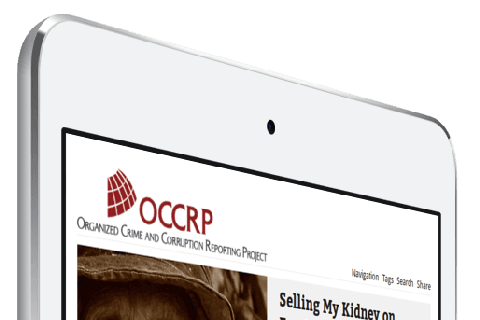
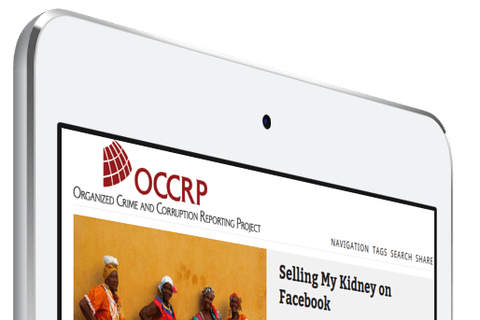
The blurry OCCRP thumb fixed

diff --git a/_site/assets/styles/screen.css b/_site/assets/styles/screen.css
@@ -19,7 +19,7 @@ a img { border: none; }
 article, aside, details, figcaption, figure, footer, header, hgroup, main, menu, nav, section, summary { display: block; }
 
 /* No files to import found in settings/* */
-html body { font-size: 100%; line-height: 1.25; color: #1a1a1a; background-color: #f9f9f9; font-family: "Europa", sans-serif; font-weight: 300; background-image: url('/assets/images/subtle-dots.png?1411285851'); }
+html body { font-size: 100%; line-height: 1.25; color: #1a1a1a; background-color: #f9f9f9; font-family: "Europa", sans-serif; font-weight: 300; background-image: url('http://metamn.github.io/its-csongor/assets/images/subtle-dots.png?1411294095'); }
 @media only screen and (min-width: 64em) { html body { font-size: 125%; line-height: 1.56; } }
 @media only screen and (min-width: 90em) { html body { font-size: 150%; line-height: 1.56; } }
 html body a { color: #1a1a1a; background-color: #f9f9f9; text-decoration: none; }
@@ -38,7 +38,7 @@ html.frontpage body #featured-image article aside p + p { margin-top: 1.56em; }
   html.frontpage body #featured-image article figure img { max-width: 100%; height: auto; }
   html.frontpage body #featured-image article figure img { max-width: none; }
   html.frontpage body #featured-image article figure figcaption { display: none; } }
-html.frontpage body #about { display: -webkit-box; /* OLD - iOS 6-, Safari 3.1-6 */ display: -moz-box; /* OLD - Firefox 19- (buggy but mostly works) */ display: -ms-flexbox; /* TWEENER - IE 10 */ display: -webkit-flex; /* NEW - Chrome */ display: flex; /* NEW, Spec - Opera 12.1, Firefox 20+ */ -webkit-box-pack: center; -ms-flex-pack: center; -webkit-justify-content: center; -moz-justify-content: center; justify-content: center; color: #f9f9f9; background-color: #1a1a1a; background-image: url('/assets/images/binding-dark.png?1411286397'); padding: 6.24em 1.56em; }
+html.frontpage body #about { display: -webkit-box; /* OLD - iOS 6-, Safari 3.1-6 */ display: -moz-box; /* OLD - Firefox 19- (buggy but mostly works) */ display: -ms-flexbox; /* TWEENER - IE 10 */ display: -webkit-flex; /* NEW - Chrome */ display: flex; /* NEW, Spec - Opera 12.1, Firefox 20+ */ -webkit-box-pack: center; -ms-flex-pack: center; -webkit-justify-content: center; -moz-justify-content: center; justify-content: center; color: #f9f9f9; background-color: #1a1a1a; background-image: url('http://metamn.github.io/its-csongor/assets/images/binding-dark.png?1411294095'); padding: 6.24em 1.56em; }
 html.frontpage body #about article { max-width: 39em; }
 html.frontpage body #about article p + p { margin-top: 1.56em; }
 html.frontpage body #about article p { font-family: "Europa", sans-serif; font-weight: 300; font-size: 1.6154em; }

diff --git a/assets/styles/screen.css b/assets/styles/screen.css
@@ -19,7 +19,7 @@ a img { border: none; }
 article, aside, details, figcaption, figure, footer, header, hgroup, main, menu, nav, section, summary { display: block; }
 
 /* No files to import found in settings/* */
-html body { font-size: 100%; line-height: 1.25; color: #1a1a1a; background-color: #f9f9f9; font-family: "Europa", sans-serif; font-weight: 300; background-image: url('/assets/images/subtle-dots.png?1411285851'); }
+html body { font-size: 100%; line-height: 1.25; color: #1a1a1a; background-color: #f9f9f9; font-family: "Europa", sans-serif; font-weight: 300; background-image: url('http://metamn.github.io/its-csongor/assets/images/subtle-dots.png?1411294095'); }
 @media only screen and (min-width: 64em) { html body { font-size: 125%; line-height: 1.56; } }
 @media only screen and (min-width: 90em) { html body { font-size: 150%; line-height: 1.56; } }
 html body a { color: #1a1a1a; background-color: #f9f9f9; text-decoration: none; }
@@ -38,7 +38,7 @@ html.frontpage body #featured-image article aside p + p { margin-top: 1.56em; }
   html.frontpage body #featured-image article figure img { max-width: 100%; height: auto; }
   html.frontpage body #featured-image article figure img { max-width: none; }
   html.frontpage body #featured-image article figure figcaption { display: none; } }
-html.frontpage body #about { display: -webkit-box; /* OLD - iOS 6-, Safari 3.1-6 */ display: -moz-box; /* OLD - Firefox 19- (buggy but mostly works) */ display: -ms-flexbox; /* TWEENER - IE 10 */ display: -webkit-flex; /* NEW - Chrome */ display: flex; /* NEW, Spec - Opera 12.1, Firefox 20+ */ -webkit-box-pack: center; -ms-flex-pack: center; -webkit-justify-content: center; -moz-justify-content: center; justify-content: center; color: #f9f9f9; background-color: #1a1a1a; background-image: url('/assets/images/binding-dark.png?1411286397'); padding: 6.24em 1.56em; }
+html.frontpage body #about { display: -webkit-box; /* OLD - iOS 6-, Safari 3.1-6 */ display: -moz-box; /* OLD - Firefox 19- (buggy but mostly works) */ display: -ms-flexbox; /* TWEENER - IE 10 */ display: -webkit-flex; /* NEW - Chrome */ display: flex; /* NEW, Spec - Opera 12.1, Firefox 20+ */ -webkit-box-pack: center; -ms-flex-pack: center; -webkit-justify-content: center; -moz-justify-content: center; justify-content: center; color: #f9f9f9; background-color: #1a1a1a; background-image: url('http://metamn.github.io/its-csongor/assets/images/binding-dark.png?1411294095'); padding: 6.24em 1.56em; }
 html.frontpage body #about article { max-width: 39em; }
 html.frontpage body #about article p + p { margin-top: 1.56em; }
 html.frontpage body #about article p { font-family: "Europa", sans-serif; font-weight: 300; font-size: 1.6154em; }

diff --git a/_site/assets/styles/pages/default.css b/_site/assets/styles/pages/default.css
@@ -66,14 +66,18 @@ Backtrace:
 /var/lib/gems/1.9.1/gems/sass-3.3.14/lib/sass/plugin/compiler.rb:214:in `block in update_stylesheets'
 /var/lib/gems/1.9.1/gems/sass-3.3.14/lib/sass/plugin/compiler.rb:208:in `each'
 /var/lib/gems/1.9.1/gems/sass-3.3.14/lib/sass/plugin/compiler.rb:208:in `update_stylesheets'
-/var/lib/gems/1.9.1/gems/sass-3.3.14/lib/sass/plugin/compiler.rb:462:in `on_file_changed'
-/var/lib/gems/1.9.1/gems/sass-3.3.14/lib/sass/plugin/compiler.rb:324:in `block in watch'
-/var/lib/gems/1.9.1/gems/listen-2.7.9/lib/listen/listener.rb:276:in `call'
-/var/lib/gems/1.9.1/gems/listen-2.7.9/lib/listen/listener.rb:276:in `_process_changes'
-/var/lib/gems/1.9.1/gems/listen-2.7.9/lib/listen/listener.rb:233:in `block in _wait_for_changes'
-/var/lib/gems/1.9.1/gems/listen-2.7.9/lib/listen/listener.rb:216:in `loop'
-/var/lib/gems/1.9.1/gems/listen-2.7.9/lib/listen/listener.rb:216:in `_wait_for_changes'
-/var/lib/gems/1.9.1/gems/listen-2.7.9/lib/listen/listener.rb:312:in `block in _start_wait_thread'
+/var/lib/gems/1.9.1/gems/sass-3.3.14/lib/sass/plugin/compiler.rb:291:in `watch'
+/var/lib/gems/1.9.1/gems/compass-1.0.1/lib/compass/sass_compiler.rb:46:in `watch!'
+/var/lib/gems/1.9.1/gems/compass-1.0.1/lib/compass/commands/watch_project.rb:41:in `perform'
+/var/lib/gems/1.9.1/gems/compass-1.0.1/lib/compass/commands/base.rb:18:in `execute'
+/var/lib/gems/1.9.1/gems/compass-1.0.1/lib/compass/commands/project_base.rb:19:in `execute'
+/var/lib/gems/1.9.1/gems/compass-1.0.1/lib/compass/exec/sub_command_ui.rb:43:in `perform!'
+/var/lib/gems/1.9.1/gems/compass-1.0.1/lib/compass/exec/sub_command_ui.rb:15:in `run!'
+/var/lib/gems/1.9.1/gems/compass-1.0.1/bin/compass:30:in `block in <top (required)>'
+/var/lib/gems/1.9.1/gems/compass-1.0.1/bin/compass:44:in `call'
+/var/lib/gems/1.9.1/gems/compass-1.0.1/bin/compass:44:in `<top (required)>'
+/usr/local/bin/compass:23:in `load'
+/usr/local/bin/compass:23:in `<main>'
 */
 body:before {
   white-space: pre;

diff --git a/_site/assets/styles/pages/frontpage.css b/_site/assets/styles/pages/frontpage.css
@@ -78,14 +78,18 @@ Backtrace:
 /var/lib/gems/1.9.1/gems/sass-3.3.14/lib/sass/plugin/compiler.rb:214:in `block in update_stylesheets'
 /var/lib/gems/1.9.1/gems/sass-3.3.14/lib/sass/plugin/compiler.rb:208:in `each'
 /var/lib/gems/1.9.1/gems/sass-3.3.14/lib/sass/plugin/compiler.rb:208:in `update_stylesheets'
-/var/lib/gems/1.9.1/gems/sass-3.3.14/lib/sass/plugin/compiler.rb:462:in `on_file_changed'
-/var/lib/gems/1.9.1/gems/sass-3.3.14/lib/sass/plugin/compiler.rb:324:in `block in watch'
-/var/lib/gems/1.9.1/gems/listen-2.7.9/lib/listen/listener.rb:276:in `call'
-/var/lib/gems/1.9.1/gems/listen-2.7.9/lib/listen/listener.rb:276:in `_process_changes'
-/var/lib/gems/1.9.1/gems/listen-2.7.9/lib/listen/listener.rb:233:in `block in _wait_for_changes'
-/var/lib/gems/1.9.1/gems/listen-2.7.9/lib/listen/listener.rb:216:in `loop'
-/var/lib/gems/1.9.1/gems/listen-2.7.9/lib/listen/listener.rb:216:in `_wait_for_changes'
-/var/lib/gems/1.9.1/gems/listen-2.7.9/lib/listen/listener.rb:312:in `block in _start_wait_thread'
+/var/lib/gems/1.9.1/gems/sass-3.3.14/lib/sass/plugin/compiler.rb:291:in `watch'
+/var/lib/gems/1.9.1/gems/compass-1.0.1/lib/compass/sass_compiler.rb:46:in `watch!'
+/var/lib/gems/1.9.1/gems/compass-1.0.1/lib/compass/commands/watch_project.rb:41:in `perform'
+/var/lib/gems/1.9.1/gems/compass-1.0.1/lib/compass/commands/base.rb:18:in `execute'
+/var/lib/gems/1.9.1/gems/compass-1.0.1/lib/compass/commands/project_base.rb:19:in `execute'
+/var/lib/gems/1.9.1/gems/compass-1.0.1/lib/compass/exec/sub_command_ui.rb:43:in `perform!'
+/var/lib/gems/1.9.1/gems/compass-1.0.1/lib/compass/exec/sub_command_ui.rb:15:in `run!'
+/var/lib/gems/1.9.1/gems/compass-1.0.1/bin/compass:30:in `block in <top (required)>'
+/var/lib/gems/1.9.1/gems/compass-1.0.1/bin/compass:44:in `call'
+/var/lib/gems/1.9.1/gems/compass-1.0.1/bin/compass:44:in `<top (required)>'
+/usr/local/bin/compass:23:in `load'
+/usr/local/bin/compass:23:in `<main>'
 */
 body:before {
   white-space: pre;

diff --git a/assets/styles/pages/default.css b/assets/styles/pages/default.css
@@ -66,14 +66,18 @@ Backtrace:
 /var/lib/gems/1.9.1/gems/sass-3.3.14/lib/sass/plugin/compiler.rb:214:in `block in update_stylesheets'
 /var/lib/gems/1.9.1/gems/sass-3.3.14/lib/sass/plugin/compiler.rb:208:in `each'
 /var/lib/gems/1.9.1/gems/sass-3.3.14/lib/sass/plugin/compiler.rb:208:in `update_stylesheets'
-/var/lib/gems/1.9.1/gems/sass-3.3.14/lib/sass/plugin/compiler.rb:462:in `on_file_changed'
-/var/lib/gems/1.9.1/gems/sass-3.3.14/lib/sass/plugin/compiler.rb:324:in `block in watch'
-/var/lib/gems/1.9.1/gems/listen-2.7.9/lib/listen/listener.rb:276:in `call'
-/var/lib/gems/1.9.1/gems/listen-2.7.9/lib/listen/listener.rb:276:in `_process_changes'
-/var/lib/gems/1.9.1/gems/listen-2.7.9/lib/listen/listener.rb:233:in `block in _wait_for_changes'
-/var/lib/gems/1.9.1/gems/listen-2.7.9/lib/listen/listener.rb:216:in `loop'
-/var/lib/gems/1.9.1/gems/listen-2.7.9/lib/listen/listener.rb:216:in `_wait_for_changes'
-/var/lib/gems/1.9.1/gems/listen-2.7.9/lib/listen/listener.rb:312:in `block in _start_wait_thread'
+/var/lib/gems/1.9.1/gems/sass-3.3.14/lib/sass/plugin/compiler.rb:291:in `watch'
+/var/lib/gems/1.9.1/gems/compass-1.0.1/lib/compass/sass_compiler.rb:46:in `watch!'
+/var/lib/gems/1.9.1/gems/compass-1.0.1/lib/compass/commands/watch_project.rb:41:in `perform'
+/var/lib/gems/1.9.1/gems/compass-1.0.1/lib/compass/commands/base.rb:18:in `execute'
+/var/lib/gems/1.9.1/gems/compass-1.0.1/lib/compass/commands/project_base.rb:19:in `execute'
+/var/lib/gems/1.9.1/gems/compass-1.0.1/lib/compass/exec/sub_command_ui.rb:43:in `perform!'
+/var/lib/gems/1.9.1/gems/compass-1.0.1/lib/compass/exec/sub_command_ui.rb:15:in `run!'
+/var/lib/gems/1.9.1/gems/compass-1.0.1/bin/compass:30:in `block in <top (required)>'
+/var/lib/gems/1.9.1/gems/compass-1.0.1/bin/compass:44:in `call'
+/var/lib/gems/1.9.1/gems/compass-1.0.1/bin/compass:44:in `<top (required)>'
+/usr/local/bin/compass:23:in `load'
+/usr/local/bin/compass:23:in `<main>'
 */
 body:before {
   white-space: pre;

diff --git a/assets/styles/pages/frontpage.css b/assets/styles/pages/frontpage.css
@@ -78,14 +78,18 @@ Backtrace:
 /var/lib/gems/1.9.1/gems/sass-3.3.14/lib/sass/plugin/compiler.rb:214:in `block in update_stylesheets'
 /var/lib/gems/1.9.1/gems/sass-3.3.14/lib/sass/plugin/compiler.rb:208:in `each'
 /var/lib/gems/1.9.1/gems/sass-3.3.14/lib/sass/plugin/compiler.rb:208:in `update_stylesheets'
-/var/lib/gems/1.9.1/gems/sass-3.3.14/lib/sass/plugin/compiler.rb:462:in `on_file_changed'
-/var/lib/gems/1.9.1/gems/sass-3.3.14/lib/sass/plugin/compiler.rb:324:in `block in watch'
-/var/lib/gems/1.9.1/gems/listen-2.7.9/lib/listen/listener.rb:276:in `call'
-/var/lib/gems/1.9.1/gems/listen-2.7.9/lib/listen/listener.rb:276:in `_process_changes'
-/var/lib/gems/1.9.1/gems/listen-2.7.9/lib/listen/listener.rb:233:in `block in _wait_for_changes'
-/var/lib/gems/1.9.1/gems/listen-2.7.9/lib/listen/listener.rb:216:in `loop'
-/var/lib/gems/1.9.1/gems/listen-2.7.9/lib/listen/listener.rb:216:in `_wait_for_changes'
-/var/lib/gems/1.9.1/gems/listen-2.7.9/lib/listen/listener.rb:312:in `block in _start_wait_thread'
+/var/lib/gems/1.9.1/gems/sass-3.3.14/lib/sass/plugin/compiler.rb:291:in `watch'
+/var/lib/gems/1.9.1/gems/compass-1.0.1/lib/compass/sass_compiler.rb:46:in `watch!'
+/var/lib/gems/1.9.1/gems/compass-1.0.1/lib/compass/commands/watch_project.rb:41:in `perform'
+/var/lib/gems/1.9.1/gems/compass-1.0.1/lib/compass/commands/base.rb:18:in `execute'
+/var/lib/gems/1.9.1/gems/compass-1.0.1/lib/compass/commands/project_base.rb:19:in `execute'
+/var/lib/gems/1.9.1/gems/compass-1.0.1/lib/compass/exec/sub_command_ui.rb:43:in `perform!'
+/var/lib/gems/1.9.1/gems/compass-1.0.1/lib/compass/exec/sub_command_ui.rb:15:in `run!'
+/var/lib/gems/1.9.1/gems/compass-1.0.1/bin/compass:30:in `block in <top (required)>'
+/var/lib/gems/1.9.1/gems/compass-1.0.1/bin/compass:44:in `call'
+/var/lib/gems/1.9.1/gems/compass-1.0.1/bin/compass:44:in `<top (required)>'
+/usr/local/bin/compass:23:in `load'
+/usr/local/bin/compass:23:in `<main>'
 */
 body:before {
   white-space: pre;

diff --git a/_site/config.rb b/_site/config.rb
@@ -2,7 +2,10 @@
 require 'sass-globbing'
 
 # Set this to the root of your project when deployed:
-http_path = "/"
+# http://chriseppstein.github.io/blog/2010/05/17/where-are-your-images/
+http_path = "http://metamn.github.io/its-csongor/"
+http_images_dir = "assets/images"
+
 css_dir = "assets/styles"
 sass_dir = "assets/styles"
 images_dir = "assets/images"

diff --git a/config.rb b/config.rb
@@ -2,7 +2,10 @@
 require 'sass-globbing'
 
 # Set this to the root of your project when deployed:
-http_path = "/"
+# http://chriseppstein.github.io/blog/2010/05/17/where-are-your-images/
+http_path = "http://metamn.github.io/its-csongor/"
+http_images_dir = "assets/images"
+
 css_dir = "assets/styles"
 sass_dir = "assets/styles"
 images_dir = "assets/images"
